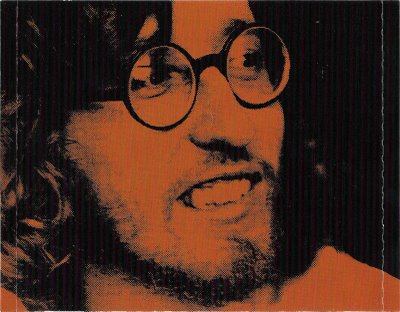
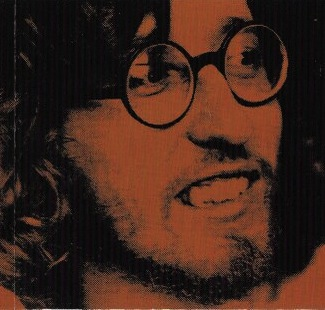
more photos and almost finished layout

diff --git a/lib/pitchforked/public/style.css b/lib/pitchforked/public/style.css
@@ -7,14 +7,15 @@ body {
 }
 
 h2 {
-  color: #EF4135;
+  color: #555;
   padding: 5px;
   font-size: 11px;
-  background-color: white;
+  background-color: #E9E9E9;
 }
 
 h3 {
   font-size: 16px;
+  padding: 10px;
   border-bottom: 1px solid #EF4135;
 }
 
@@ -23,12 +24,21 @@ td {
   padding: 2px 5px;
 }
 
+h2::after {
+  color: #EF4135;
+  font-size: 14px;
+  padding-left: 2px;
+  font-family: Menlo,Monaco,"DejaVu Sans Mono","Bitstream Vera Sans Mono","Lucida Console",monospace;
+  content: "»";
+}
+
 .container {
   background-color: #E9E9E9;  
 }
 
 #headerimg {
   width: 960px;
+  margin: 0px;
 }
 
 ol#topline li {
@@ -86,6 +96,7 @@ li span.rednums {
 .section {
   background-color: white;
   margin: 3px;
+  padding: 10px;
 }
 
 .black {
@@ -111,7 +122,27 @@ li span.rednums {
   line-height: 40px;
 }
 
+.row.last {
+  color: #EEE;
+  background-color: #555;
+  border-top: 2px solid #444;
+}
 
+img {
+  overflow: hidden;
+  margin: 10px 5px;
+}
+
+img.littlepic {
+  height: 100px;
+  width: 100px;
+  display: inline;
+}
+
+img#tvp {
+ /* margin-top: 20px;*/
+  width: 325px;
+}
 
 
 

diff --git a/lib/pitchforked/pitchforked.rb b/lib/pitchforked/pitchforked.rb
@@ -46,10 +46,18 @@ class Pitchforked < Sinatra::Base
     @samplers = Review.body_name_drop(" sampler ")
     @zithers = Review.body_name_drop(" zither ")
     @didges = Review.body_name_drop(" didgeridoo ")
+    @electro02 = Review.body_name_drop_by_year("electroclash", "2002")
+    @electro03 = Review.body_name_drop_by_year("electroclash", "2003")
+    @electro04 = Review.body_name_drop_by_year("electroclash", "2004")
+    @electro12 = Review.body_name_drop_by_year("electroclash", "2012")
     @chill09 = Review.body_name_drop_by_year("chillwave", "2009")
     @chill10 = Review.body_name_drop_by_year("chillwave", "2010")
     @chill11 = Review.body_name_drop_by_year("chillwave", "2011")
     @chill12 = Review.body_name_drop_by_year("chillwave", "2012")
+    @balearic07 = Review.body_name_drop_by_year("balearic", "2007")
+    @balearic08 = Review.body_name_drop_by_year("balearic", "2008")
+    @balearic09 = Review.body_name_drop_by_year("balearic", "2009")
+    @balearic10 = Review.body_name_drop_by_year("balearic", "2010")
     @bottomlabels = Review.lowest_rated_labels
     erb :index2
   end
